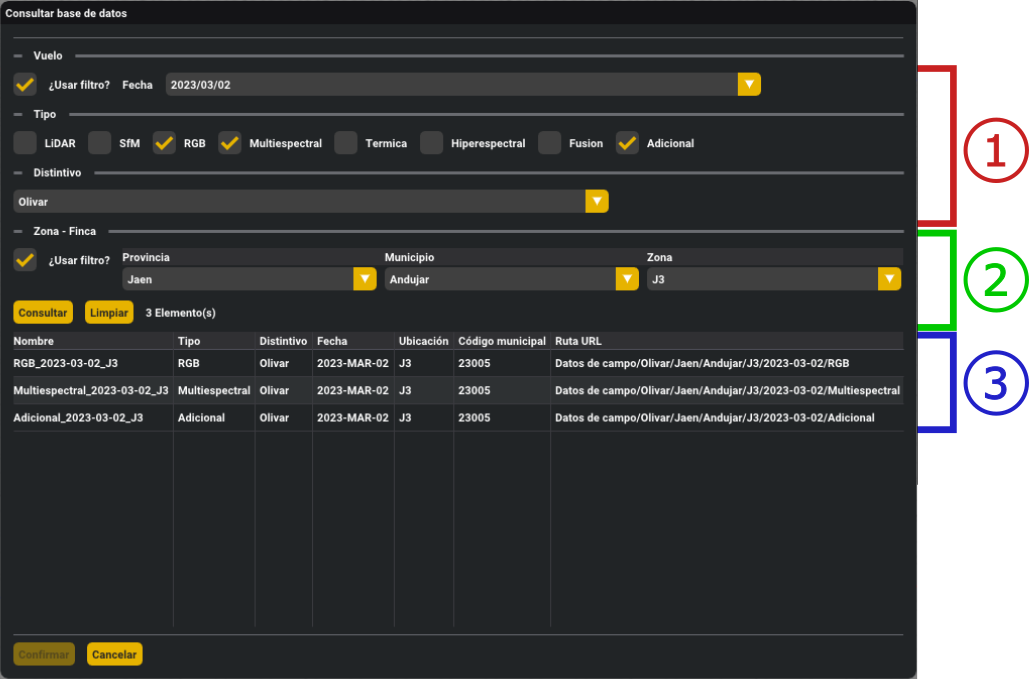
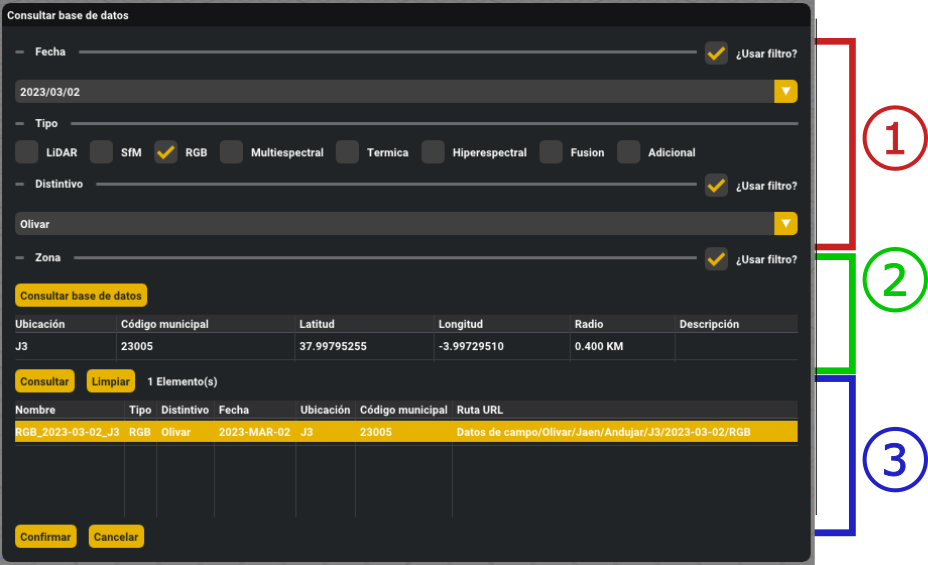
Ejemplo fusion hiperespectral

Changed region(s): [[0.0, 0.0, 1.0, 1.0]]

diff --git a/Casos de uso y ejemplos/Fusion-de-datos-espectrales.md b/Casos de uso y ejemplos/Fusion-de-datos-espectrales.md
@@ -8,6 +8,10 @@ nav_order: 3
 - [Térmica](#térmica)
 - [Multiespectral](#multiespectral)
 - [Hiperespectral](#hiperespectral)
+  - [Descarga de datos - Nube de puntos](#descarga-de-datos---nube-de-puntos)
+  - [Descarga de datos - Hiperespectral](#descarga-de-datos---hiperespectral)
+  - [Fusión de datos hiperespectrales](#fusión-de-datos-hiperespectrales)
+  - [Visualización](#visualización)
 
 
 # Térmica
@@ -19,5 +23,38 @@ En proceso
 {: .label .label-yellow }
 
 # Hiperespectral
-En proceso
-{: .label .label-yellow }
+
+## Descarga de datos - Nube de puntos
+
+Siguiendo el mismo procedimiento indicado en el ejemplo [Descarga y visualización de datos](/Casos%20de%20uso%20y%20ejemplos/Descarga-y-visualizacion-datos), realizamos la descarga de la nube de puntos correspondiente a la zona *Puente del Obispo*, al ser una que dispone de información hiperespectral.
+
+Ya que buscamos nubes de puntos, establecemos el filtro de tipo a *SfM* y *LiDAR*. Además, añadimos el distintivo *Puente* para limitar los resultados aún más. Según el contenido de la base de datos, puede obtener resultados distintos al mostrado en este ejemplo; el flujo de trabajo es idéntico independientemente de este factor, solo debe asegurarse de utilizar datos parejos de la misma toma (por ejemplo, fusionar datos espectrales del año 2022 con una nube de puntos de 2024 podría originar incongruencias).
+
+![Ventana de consulta para nubes de puntos con distintivo *Puente*](../Assets/Images/fusion_hiper_querynube.png)
+
+## Descarga de datos - Hiperespectral
+
+A continuación, descargamos también, de la misma zona, los datos hiperespectrales asociados.
+
+![Ventana de consulta para datos hiperespectrales con distintivo *Puente*](../Assets/Images/fusion_hiper_querydato.png)
+
+## Fusión de datos hiperespectrales
+
+Una vez la nube de puntos está cargada en GEU y disponemos de la información hiperespectral, abrimos el menú de fusión hiperespectral situado en la barra superior: ***Fusión -> Hiperespectral***. En la ventana que aparece, debe especificarse el fichero hiperespectral (hipercubo) de entrada. Si la carga se realiza sin problemas, es posible previsualizar las distintas bandas espectrales incluidas en el hipercubo, a modo de imagen ráster. Utilice la barra lateral para establecer la banda a previsualizar.
+
+![Ventana de fusión hiperespectral, visualizando bandas del hipercubo](../Assets/Images/fusion_hiper_input.png)
+
+Debido al tamaño de estos datos y las nubes de puntos, trabajar simultáneamente con todas las bandas no es recomendable: pueden originarse problemas de memoria del sistema y originar un gran impacto en el rendimiento tanto de la aplicación como del sistema. Por esto, queda habilitado un selector del rango de bandas a emplear durante la fusión, limitando el proceso a únicamente dichas bandas.
+
+![Ventana de fusión hiperespectral, resaltando el selector de rango de bandas a utilizar](../Assets/Images/fusion_hiper_bandsrange.png)
+
+Después de asignar un rango de bandas, solo resta seleccionar la nube de puntos objetivo (automáticamente se asigna la primera nube de la escena, revise que es la nube correcta antes de iniciar la fusión). Como ya se ha mencionado, este proceso requiere un alto coste en tiempo de ejecución y puede tomar varios minutos.
+
+![Ventana de fusión hiperespectral, resaltando el selector de nubes de puntos y control y estado de la fusión](../Assets/Images/fusion_hiper_fusing.png)
+
+## Visualización
+
+Con la información hiperespectral fusionada a la nube de puntos, es posible visualizar cada banda espectral estableciendo el modo de visualización a *<ins>Hiperespectral</ins>* desde la ventana de *detalles* con la nube seleccionada en el *inspector*. Utilice la barra deslizante para seleccionar la banda visualizada. Recuerde que únicamente contienen información aquellas bandas dentro del rango establecido durante la fusión.
+
+![Visualización del resultado de la fusión hiperespectral sobre la nube cargada en GEU](../Assets/Images/fusion_hiper_result.png)
+

diff --git a/Casos de uso y ejemplos/Descarga-y-visualizacion-datos.md b/Casos de uso y ejemplos/Descarga-y-visualizacion-datos.md
@@ -48,16 +48,15 @@ En este ejemplo, utilizaremos los datos de la finca **J1**. Concretamente, busca
 
 ## Datos espectrales - Imágenes y adicional
 
-Junto a la nube de puntos, descargamos también la información multiespectral necesaria para futuros tutoriales: imágenes RGB y multiespectrales, además de ficheros adicionales para los métodos necesarios. 
+Junto a la nube de puntos, descargaremos también las imágenes *RGB* tomadas en el mismo vuelo. Al igual que en la sección anterior, a continuación se listan los parámetros empleados en el formulario de consulta:
 
 {: .highlight }
-> Debe repetir el proceso de selección para cada uno de los datos, **no es posible seleccionar múltiples entradas** del listado y realizar su descarga en conjunto.
+> Para la descarga de varios datos, debe seleccionar y descargarlos uno a uno, **no es posible seleccionar múltiples entradas** del listado y realizar su descarga en conjunto.
 
-Al igual que en la sección anterior, a continuación se listan los parámetros empleados en el formulario de consulta:
 
 1. **Fecha, Tipo y Distintivo**
    
-   <ins>Para este ejemplo</ins>, marcamos el filtro de fecha para extraer todos los datos relativos al mismo vuelo y evitar incongruencias, especificando el día **2 de marzo de 2023**. En el tipo, seleccionamos *RGB*, *Multiespectral* y *Adicional*, pues son los datos que requeriremos en el futuro. Como distintivo, mantenemos *Olivar*.
+   <ins>Para este ejemplo</ins>, marcamos el filtro de fecha para extraer todos los datos relativos al mismo vuelo y evitar incongruencias, especificando el día **2 de marzo de 2023**. En el tipo, seleccionamos *RGB*, pues será el que utilizaremos en el próximo ejemplo ([Subida de datos a los servidores](/Casos%20de%20uso%20y%20ejemplos//Subida-datos-nas)). Como distintivo, mantenemos *Olivar*.
 
 2. **Zona**
     
@@ -65,7 +64,7 @@ Al igual que en la sección anterior, a continuación se listan los parámetros 
 
 3. **Selección**
 
-    <ins>Para este ejemplo</ins>, seleccionamos una fila con los datos a descargar, repitiendo el proceso hasta disponer de toda la información en su equipo.
+    <ins>Para este ejemplo</ins>, seleccionamos la fila con los datos a descargar.
 
 ![Ventana de consulta sobre la base de datos](../Assets/Images/downloaddata_queryextra.png)
 
@@ -80,8 +79,6 @@ En este ejemplo, los ficheros quedarán almacenados en los siguientes directorio
 ```
 /GEU/Cache/Datos de campo/Olivar/Jaen/Marmolejo/J3/2023-03-02/SfM
 /GEU/Cache/Datos de campo/Olivar/Jaen/Marmolejo/J3/2023-03-02/RGB
-/GEU/Cache/Datos de campo/Olivar/Jaen/Marmolejo/J3/2023-03-02/Multiespectral
-/GEU/Cache/Datos de campo/Olivar/Jaen/Marmolejo/J3/2023-03-02/Adicional
 ```
 
 Al descargar nubes de puntos, GEU abrirá el fichero automáticamente una vez finaliza la descarga, añadiendo la nube a la escena activa. Para más información sobre el manejo de la escena, vea la página [Gestor de escenas](/Manual%20de%20usuario/Gestor-de-escenas).
